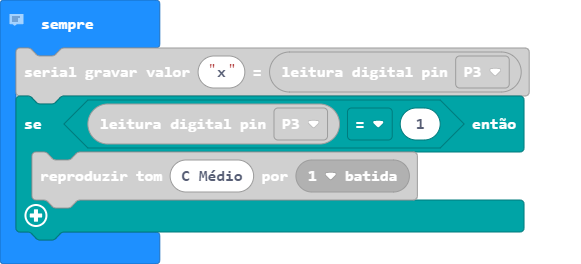
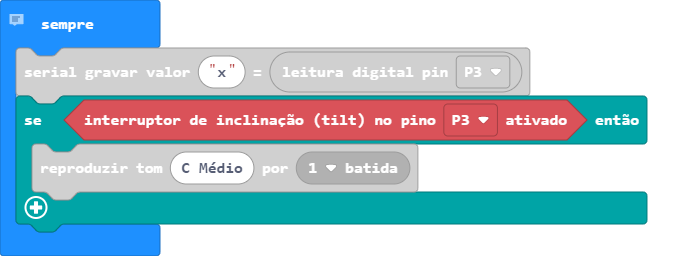
Update main.blocks, main.ts, hackbit.ts

diff --git a/hackbit.ts b/hackbit.ts
@@ -935,7 +935,7 @@ namespace hackbit {
     //% subcategory=Input  group="Digital" 
     //% color=#DA5259 
     export function TiltState(pin: DigitalPin): boolean {
-        pins.setPull(pin, PinPullMode.PullDown)
+        pins.setPull(pin, PinPullMode.PullUp)
         if (pins.digitalReadPin(pin) == 0) {
             return true
         }

diff --git a/main.ts b/main.ts
@@ -1,7 +1,7 @@
 // www.hackids.com.br
 basic.forever(function () {
     serial.writeValue("x", pins.digitalReadPin(DigitalPin.P3))
-    if (pins.digitalReadPin(DigitalPin.P3) == 1) {
+    if (hackbit.TiltState(DigitalPin.P3)) {
         music.playTone(262, music.beat(BeatFraction.Whole))
     }
 })
